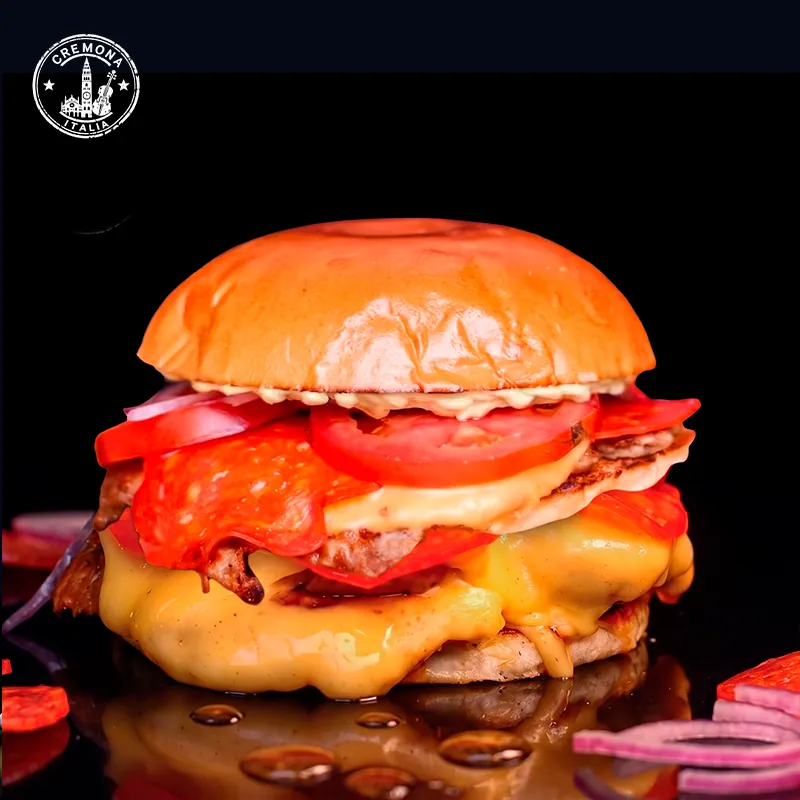
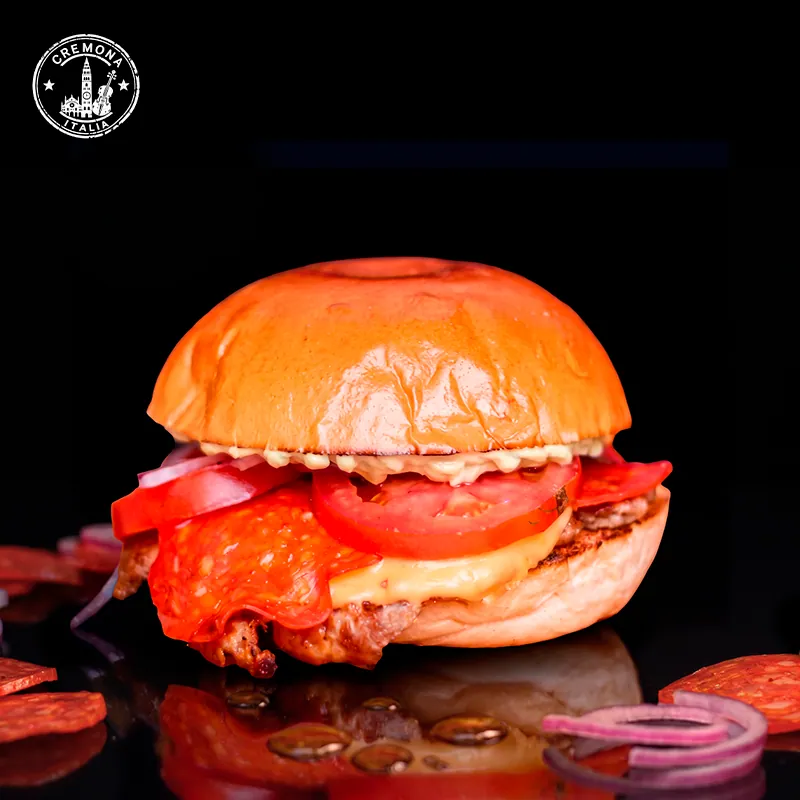
feat: add sortMenuCategories

diff --git a/src/components/storefront/phone-lookup.tsx b/src/components/storefront/phone-lookup.tsx
@@ -12,6 +12,47 @@ import { saveCustomer } from "./use-customer";
 type Step = "phone" | "password" | "send" | "register" | "forgot" | "reset";
 
 const POLL_MS = 3000;
+const PENDING_OTP_KEY = "pb_pending_otp";
+
+type PendingOtp = { phone: string; code: string; expiresAt: number; returnTo: string; waUrl: string; sandbox: boolean };
+
+function readPendingOtp(): PendingOtp | null {
+  try {
+    const raw = window.localStorage.getItem(PENDING_OTP_KEY);
+    if (!raw) return null;
+    const p = JSON.parse(raw) as Partial<PendingOtp>;
+    if (
+      typeof p.phone === "string" &&
+      typeof p.code === "string" &&
+      typeof p.waUrl === "string" &&
+      typeof p.expiresAt === "number" &&
+      Date.now() < p.expiresAt
+    ) {
+      return { returnTo: "", sandbox: false, ...p } as PendingOtp;
+    }
+    window.localStorage.removeItem(PENDING_OTP_KEY);
+  } catch {
+    /* armazenamento indisponível */
+  }
+  return null;
+}
+
+function writePendingOtp(value: PendingOtp): void {
+  try {
+    window.localStorage.setItem(PENDING_OTP_KEY, JSON.stringify(value));
+  } catch {
+    /* ignorar */
+  }
+}
+
+function clearPendingOtp(): void {
+  try {
+    window.localStorage.removeItem(PENDING_OTP_KEY);
+  } catch {
+    /* ignorar */
+  }
+}
+
 const digitsOf = (value: string) => value.replace(/\D/g, "");
 
 const inputClass =
@@ -62,7 +103,20 @@ export function PhoneLookup({
   const [busy, setBusy] = useState(false);
   const checking = useRef(false);
 
+  /* Restaura o fluxo OTP se o navegador descartou/recarregou a aba ao ir para o WhatsApp. */
+  useEffect(() => {
+    if (startAtRegister) return;
+    const pending = readPendingOtp();
+    if (!pending) return;
+    setPhone(formatPhone(pending.phone));
+    setCode(pending.code);
+    setWaUrl(pending.waUrl);
+    setSandbox(pending.sandbox);
+    setStep("send");
+  }, [startAtRegister]);
+
   const goTo = (next: Step) => {
+    if (next === "phone") clearPendingOtp();
     setStep(next);
     setError(null);
     setNotice(null);
@@ -70,6 +124,7 @@ export function PhoneLookup({
 
   const enter = useCallback(
     (data: Identity) => {
+      clearPendingOtp();
       saveCustomer({ phone: data.phone, name: data.name });
       router.refresh();
     },
@@ -89,11 +144,19 @@ export function PhoneLookup({
         });
         if (!ok) {
           setError(data.error ?? "Não foi possível verificar agora.");
-          if (status === 410) setStep("phone"); // expirado: recomeça
-          if (status === 409) setStep("password"); // conta já verificada: só senha
+          if (status === 410) {
+            clearPendingOtp();
+            setStep("phone"); // expirado: recomeça
+          }
+          if (status === 409) {
+            clearPendingOtp();
+            setStep("password"); // conta já verificada: só senha
+          }
           return;
         }
         if (data.status === "verified") {
+          clearPendingOtp(); // código consumido no servidor
+
           saveCustomer({ phone: data.phone });
           setError(null);
           setStep("register");
@@ -113,8 +176,18 @@ export function PhoneLookup({
   /* Polling leve enquanto o cliente está no WhatsApp. */
   useEffect(() => {
     if (step !== "send") return;
+    void check(false); // checagem imediata (ex.: aba restaurada após o WhatsApp)
     const id = setInterval(() => void check(false), POLL_MS);
-    return () => clearInterval(id);
+    const onReturn = () => {
+      if (document.visibilityState === "visible") void check(false);
+    };
+    document.addEventListener("visibilitychange", onReturn);
+    window.addEventListener("focus", onReturn);
+    return () => {
+      clearInterval(id);
+      document.removeEventListener("visibilitychange", onReturn);
+      window.removeEventListener("focus", onReturn);
+    };
   }, [step, check]);
 
   /** Envolve um envio de formulário: bloqueia duplo clique e trata falha de rede. */
@@ -150,7 +223,14 @@ export function PhoneLookup({
         return;
       }
 
-      const init = await postJson<{ error?: string; code?: string; waUrl?: string; mode?: string }>(
+      const init = await postJson<{
+        error?: string;
+        code?: string;
+        waUrl?: string;
+        mode?: string;
+        expiresAt?: number;
+        expiresIn?: number;
+      }>(
         "/api/auth/whatsapp/init",
         { phone },
       );
@@ -164,7 +244,16 @@ export function PhoneLookup({
       }
       setCode(init.data.code);
       setWaUrl(init.data.waUrl);
-      setSandbox(init.data.mode === "sandbox");
+      const isSandbox = init.data.mode === "sandbox";
+      setSandbox(isSandbox);
+      writePendingOtp({
+        phone: digitsOf(phone),
+        code: init.data.code,
+        waUrl: init.data.waUrl,
+        sandbox: isSandbox,
+        expiresAt: init.data.expiresAt ?? Date.now() + (init.data.expiresIn ?? 600) * 1000,
+        returnTo: window.location.pathname,
+      });
       setStep("send");
     });
 

diff --git a/src/app/api/auth/whatsapp/init/route.ts b/src/app/api/auth/whatsapp/init/route.ts
@@ -1,9 +1,9 @@
-import { eq, lt } from "drizzle-orm";
+import { and, desc, eq, gt, inArray, lt } from "drizzle-orm";
 import { NextResponse } from "next/server";
 
 import { whatsappInitBody } from "@/core/schemas/auth";
 import { fail, findCustomerByPhone, isRegistered, parseBody } from "@/infra/auth/account";
-import { buildWaUrl, generateEmbarkCode, getWhatsappAuthMode, OTP_TTL_MS } from "@/infra/auth/otp";
+import { buildWaUrl, generateEmbarkCode, getWhatsappAuthMode, OTP_TTL_MS, phoneVariants } from "@/infra/auth/otp";
 import { db } from "@/infra/db";
 import { whatsappOtps } from "@/infra/db/schema";
 import { enforceRateLimit } from "@/infra/security/rate-limit";
@@ -34,9 +34,39 @@ export async function POST(request: Request) {
   }
 
   const now = new Date();
-  /* Higiene: expirados somem; um único código ativo por número. */
+  /* Higiene: expirados somem. */
   await db.delete(whatsappOtps).where(lt(whatsappOtps.expiresAt, now));
-  await db.delete(whatsappOtps).where(eq(whatsappOtps.phone, phone));
+
+  /* Idempotência: se já há código ativo (não verificado, dentro da validade) para o número
+     (com/sem 9º dígito), devolve o mesmo — a aba pode ter sido recarregada ao voltar do WhatsApp. */
+  const phones = phoneVariants(local).map((v) => `55${v}`);
+  const [active] = await db
+    .select({ code: whatsappOtps.code, expiresAt: whatsappOtps.expiresAt })
+    .from(whatsappOtps)
+    .where(
+      and(
+        inArray(whatsappOtps.phone, phones),
+        eq(whatsappOtps.verified, false),
+        gt(whatsappOtps.expiresAt, now),
+      ),
+    )
+    .orderBy(desc(whatsappOtps.createdAt))
+    .limit(1);
+  if (active) {
+    return NextResponse.json(
+      {
+        code: active.code,
+        waUrl: buildWaUrl(active.code),
+        mode: getWhatsappAuthMode(),
+        expiresIn: Math.max(1, Math.round((active.expiresAt.getTime() - now.getTime()) / 1000)),
+        expiresAt: active.expiresAt.getTime(),
+      },
+      { headers: { "Cache-Control": "no-store" } },
+    );
+  }
+
+  /* Sem código ativo: limpa resíduos (ex.: verificados não consumidos) e cria um novo. */
+  await db.delete(whatsappOtps).where(inArray(whatsappOtps.phone, phones));
 
   const expiresAt = new Date(now.getTime() + OTP_TTL_MS);
   for (let attempt = 0; attempt < 5; attempt++) {
@@ -53,6 +83,7 @@ export async function POST(request: Request) {
           waUrl: buildWaUrl(code),
           mode: getWhatsappAuthMode(),
           expiresIn: OTP_TTL_MS / 1000,
+          expiresAt: expiresAt.getTime(),
         },
         { headers: { "Cache-Control": "no-store" } },
       );

diff --git a/src/core/schemas/product.ts b/src/core/schemas/product.ts
@@ -17,7 +17,12 @@ export const productInputSchema = z.object({
   name: z.string().trim().min(2, "Nome muito curto.").max(80),
   description: z.string().trim().max(400).nullish(),
   priceCents: centsSchema,
-  imageUrl: z.string().url().nullish(),
+  /* URL absoluta (upload) ou caminho local em /public (ex: /combos/x.webp, vindo de applyLocalImages). */
+  imageUrl: z
+    .string()
+    .max(2048)
+    .refine((v) => /^\/(?!\/)[^\s]*$/.test(v) || z.string().url().safeParse(v).success, "Invalid url")
+    .nullish(),
   isAvailable: z.boolean().default(true),
   isFeatured: z.boolean().default(false),
   sortOrder: z.coerce.number().int().min(0).max(9999).default(0),

diff --git a/src/infra/db/queries.ts b/src/infra/db/queries.ts
@@ -6,6 +6,8 @@ import type {
   CatalogDeliveryZone,
 } from "@/core/schemas/product";
 
+import { sortMenuCategories } from "@/core/store/sort-menu-categories";
+
 import { db } from "./index";
 import { addonGroups, addons, categories, deliveryZones, products } from "./schema";
 
@@ -77,7 +79,9 @@ export async function loadCatalog(
     });
   }
 
-  return [...result.values()];
+  const list = [...result.values()];
+  /* Público: Combos primeiro. Admin mantém a ordem real (sortOrder) para reordenar sem confusão. */
+  return options.includeInactiveCategories ? list : sortMenuCategories(list);
 }
 
 export async function loadDeliveryZones(

diff --git a/src/core/store/sort-menu-categories.ts b/src/core/store/sort-menu-categories.ts
@@ -1,0 +1,8 @@
+/**
+ * Ordenação do cardápio público: categorias de "Combos" sempre primeiro; as demais mantêm
+ * a ordem recebida (sortOrder, nome). Função pura e estável.
+ */
+export function sortMenuCategories<T extends { name: string }>(categories: T[]): T[] {
+  const isCombo = (c: T) => c.name.toLowerCase().includes("combo");
+  return [...categories.filter(isCombo), ...categories.filter((c) => !isCombo(c))];
+}
